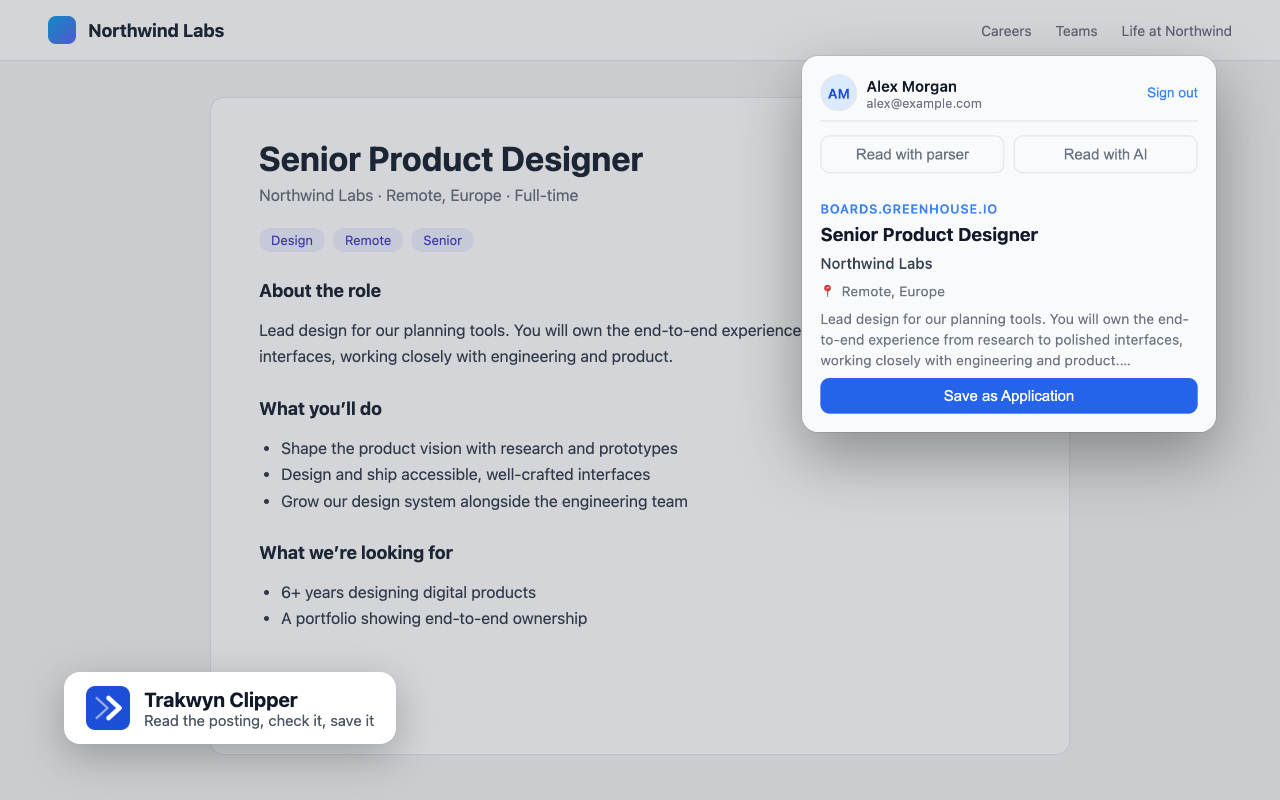
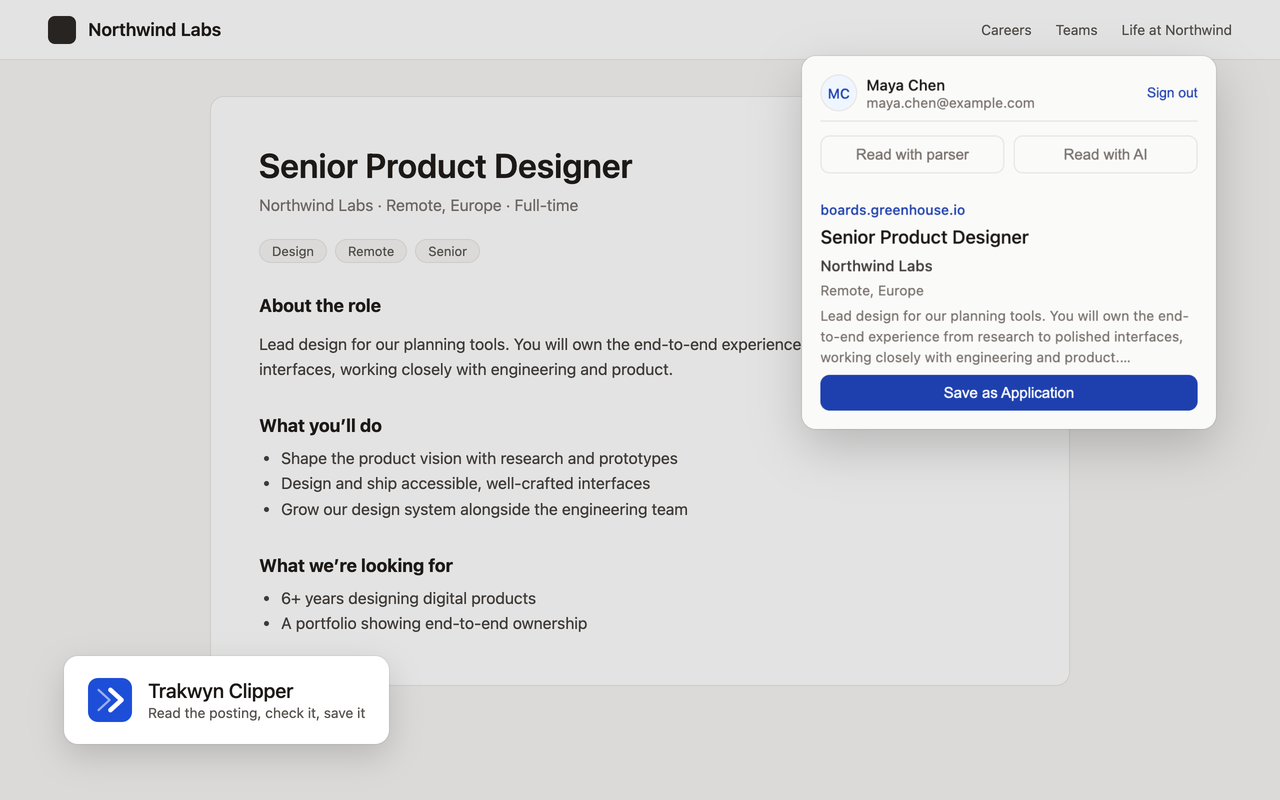
chore(extension): retake the store screenshots and promo tile for the restyled popup (JEF-687) (#1644)
Claude-Session: https://claude.ai/code/session_016qG1KNvBZQMVMd3Hp1wr43

diff --git a/apps/extension/store/listing.md b/apps/extension/store/listing.md
@@ -64,7 +64,7 @@ https://www.trakwyn.com/privacy
 | Screenshot 2     | `store/assets/screenshot-2-saved.png` | 1280×800 |
 | Small promo tile | `store/assets/promo-tile-small.png`   | 440×280  |
 
-The screenshots are the real built popup and content script running against a demo posting for a made-up company ("Northwind Labs"), with a stand-in signed-in account and API answers. They are 24-bit PNG with no alpha. To redo them after a popup change, rebuild, load the build in Chromium, and capture the popup beside the demo page.
+The screenshots are the real built popup and content script running against a demo posting for a made-up company ("Northwind Labs"), with a stand-in signed-in account ("Maya Chen", as in the marketing screenshots) and stubbed API answers. They are 24-bit PNG with no alpha. The popup is captured at 2x from the loaded build, composed onto the demo page at 1280×800 with a caption card, and downscaled. The small promo tile is a solid ink-blue (`#1e40af`) tile with the icon, no gradient. Both were retaken on 2026-11-24 (JEF-687) after the popup restyle (JEF-673). To redo them after a popup change, rebuild (`VITE_API_URL` and `VITE_WEB_URL` set to any placeholder), load `.output/chrome-mv3` in Chromium, and capture the popup beside the demo page.
 
 ## Privacy practices tab
 
